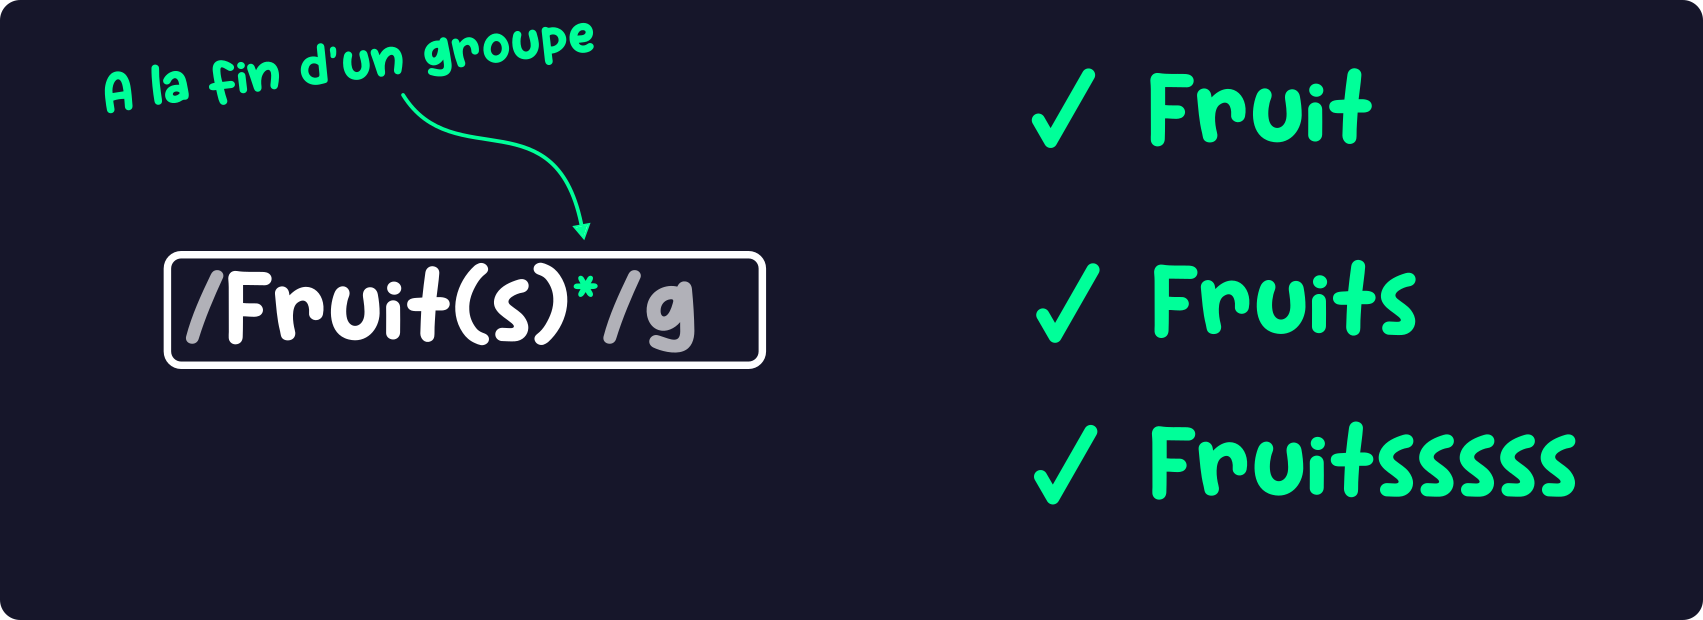
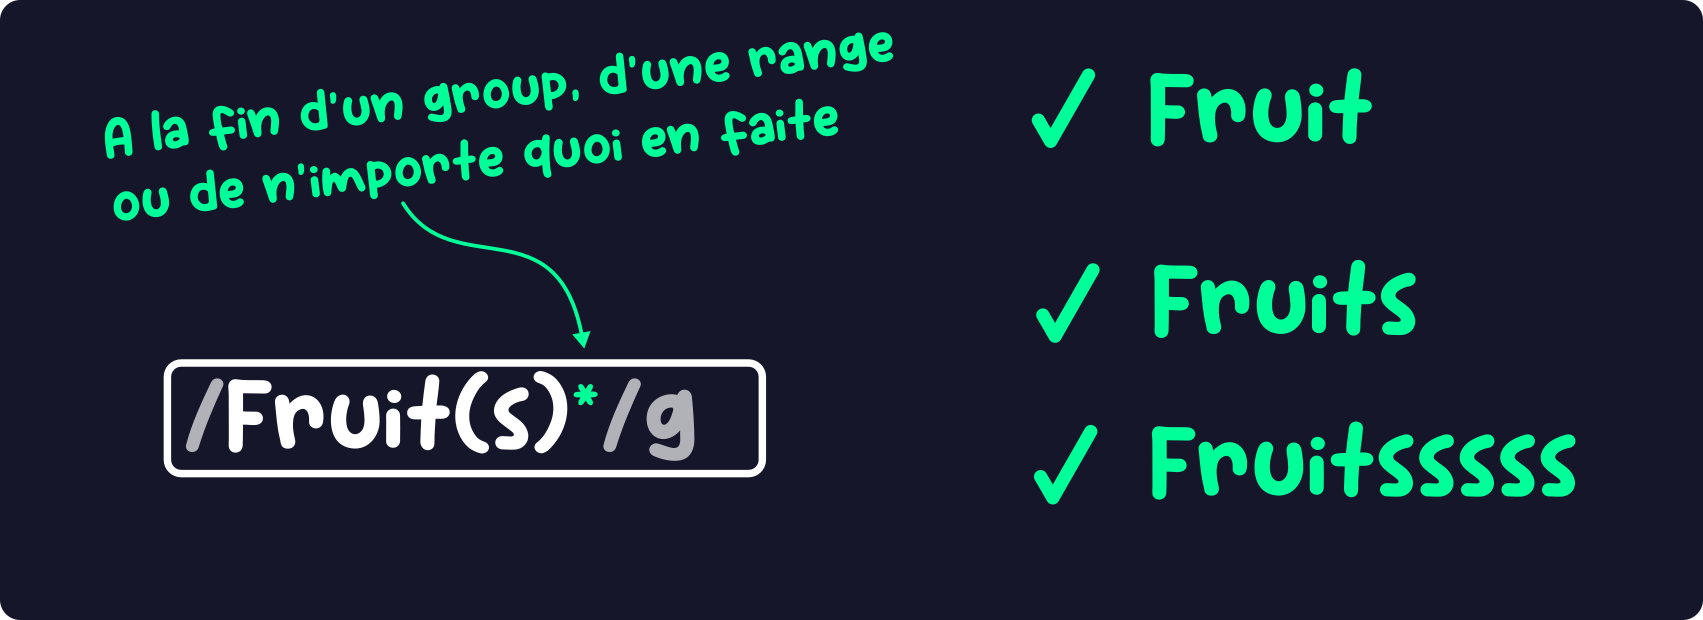
Quelque petit changement
- ajout du faveIcon et des icone 192px et 512px
- correction de bug sur chromes :
       - cacher correctement la scrolle bar
       - correction d'un bug qui fesait les cookie s'ajoutait pas sur chrome

- ajout de quelque palette de couleur
- correction de certaint niveau après un play tester avec des potes moi
- correction de quelque image tuto pour les rendre plus compéensible

Changed region(s): [[0.0934, 0.3677, 0.4668, 0.7968], [0.0622, 0.0306, 0.5291, 0.3677], [0.3112, 0.3371, 0.3423, 0.3677]]

diff --git a/src/utils/GamePageManager.js b/src/utils/GamePageManager.js
@@ -41,7 +41,9 @@ export default class GamePageManager{
             "ThoerieList":<ThoerieList/>,
             "EndScreen":<Transiton nextPage={"MainMenu"} title={"Thx for playing :)"} time={1500}/>
         }
-        this.exeptPage=["GameTitle","LevelPage","TheoriePage","LevelTheoriePage"];              // liste des page qui ne peux être sauvgarder et donc, ne peux pas être atteinte autrement qu'en jeu
+        
+        // liste des page qui ne peux être sauvgarder et donc, ne peux pas être atteinte autrement qu'en jeu
+        this.exeptPage=["GameTitle","LevelPage","TheoriePage","LevelTheoriePage"];
     }
 
     /**

diff --git a/src/utils/SaveManager.js b/src/utils/SaveManager.js
@@ -54,7 +54,7 @@ export default class SaveManger{
         let now=new Date();
         now.setFullYear(now.getFullYear()+2);
         let d = JSON.stringify(SaveManger.data);
-        document.cookie="save="+d+"; expires="+now.toUTCString()+"; path=/";
+        document.cookie="save="+d+"; expires="+now.toUTCString()+"; path=/ ; SameSite=None; Secure";
     }
 
     static reste(){

diff --git a/src/gamePage/LevelPage/LevelPage.js b/src/gamePage/LevelPage/LevelPage.js
@@ -80,7 +80,7 @@ export default function LevelPage(props) {
     let th = DataLoader.getTheorieData(d.theorie);
 
     // si le niveau est un bonus, alors afficher nom du niveau, si non => nom de la théroeir
-    if(th.name=="Bonus"){
+    if(d.name!=undefined || d.name!=""){
       setLevelName(`Niveau ${Number.parseInt(levelNumber.current)+1} : ${d.name}`);
     }
     else{

diff --git a/public/index.html b/public/index.html
@@ -24,7 +24,7 @@
       work correctly both with client-side routing and a non-root public URL.
       Learn how to configure a non-root public URL by running `npm run build`.
     -->
-    <title>React App</title>
+    <title>Regex Tool Tutorial</title>
   </head>
   <body>
     <noscript>You need to enable JavaScript to run this app.</noscript>

diff --git a/src/gamePage/MainMenu/index.css b/src/gamePage/MainMenu/index.css
@@ -72,7 +72,7 @@
         border-bottom:solid var(--color-prime2) 5px;
     }
         .MainMenu .PalSelectorContainer>div{
-            width: 70%;
+            width: 100%;
         }
 
         .MainMenu .PalSelectorContainer .CloseBnt{

diff --git a/src/index.css b/src/index.css
@@ -31,6 +31,10 @@ html, body, #root {
   overflow-x: hidden;
 }
 
+#root::-webkit-scrollbar {
+  display: none;
+}
+
 code {
   font-family: source-code-pro, Menlo, Monaco, Consolas, 'Courier New',
     monospace;

diff --git a/src/compenent/paletteSelector/index.css b/src/compenent/paletteSelector/index.css
@@ -3,7 +3,7 @@
     margin-top: 30px;
     display: flex;
     flex-wrap: wrap;
-    justify-content: space-around;
+    justify-content: center;
     width: 100%;
 }
 
